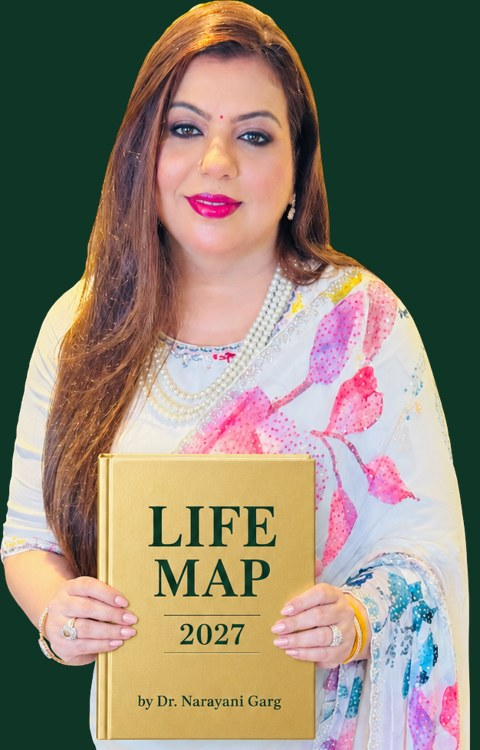
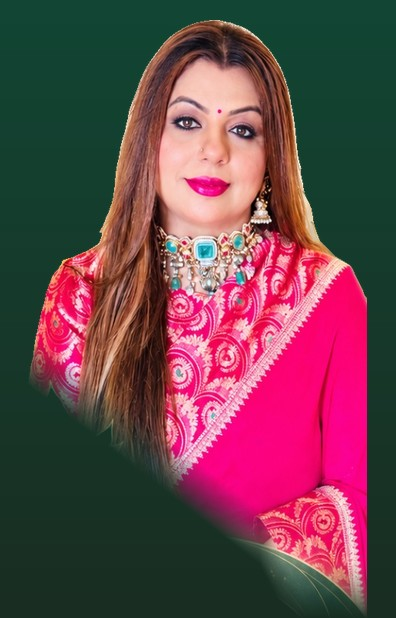
English-only form, no-translate, creative photo of Narayani, date field fix
Claude-Session: https://claude.ai/code/session_01ANPvQh3sSLw49KJqUUisnR

diff --git a/pay/index.html b/pay/index.html
@@ -1,13 +1,14 @@
 <!doctype html>
-<html lang="hi">
+<html lang="en" translate="no" class="notranslate">
 <head>
 <meta charset="utf-8">
+<meta name="google" content="notranslate">
 <meta name="viewport" content="width=device-width,initial-scale=1,viewport-fit=cover">
 <title>Life Map 2027 | Narayani Garg</title>
 <meta name="robots" content="noindex,nofollow">
-<meta name="description" content="Life Map 2027: sirf existing Soul Parivaar (Clients) ke liye. Details bhariye aur UPI se payment kijiye.">
+<meta name="description" content="Life Map 2027, only for existing Soul Parivaar (Clients). Fill in your details and pay by UPI.">
 <meta property="og:title" content="Life Map 2027 | Narayani Garg">
-<meta property="og:description" content="Sirf existing Soul Parivaar (Clients) ke liye. Rs 11,000 | Details bhariye aur UPI se payment kijiye.">
+<meta property="og:description" content="Only for existing Soul Parivaar (Clients). Rs 11,000 | Fill in your details and pay by UPI.">
 <meta property="og:image" content="https://deoxysaryan.github.io/nng-lifemap-2027/assets/narayani-lifemap.jpg"><meta property="og:type" content="website"><meta property="og:url" content="https://deoxysaryan.github.io/nng-lifemap-2027/pay/">
 <meta name="theme-color" content="#2A0B16">
 <style>
@@ -32,7 +33,7 @@ body{background:radial-gradient(120% 70% at 50% 0%,#4A1628 0%,var(--plum) 60%) f
 .top img{width:118px;height:auto;display:block;box-shadow:0 4px 14px rgba(0,0,0,.35)}
 .top span{font-weight:600;letter-spacing:.1em;font-size:14px;text-transform:uppercase}
 .hero{display:grid;grid-template-columns:132px 1fr;gap:16px;align-items:center}
-.hero img{width:132px;height:206px;object-fit:cover;object-position:30% 10%;border-radius:14px;border:1px solid rgba(232,181,74,.35)}
+.hero img{width:132px;height:206px;object-fit:cover;object-position:50% 0%;border-radius:14px;border:1px solid rgba(232,181,74,.35)}
 .badge{display:inline-flex;align-items:center;gap:8px;font-size:13px;font-weight:600;color:var(--gold-hi);background:rgba(232,181,74,.16);border:1.5px solid rgba(232,181,74,.7);border-radius:999px;padding:6px 12px;margin-bottom:10px}
 .badge svg{width:14px;height:14px;fill:none;stroke:var(--gold-hi);stroke-width:2}
 h1{font-family:var(--display);font-weight:700;text-transform:uppercase;line-height:1.02;margin:0;font-size:34px;letter-spacing:.005em}
@@ -51,6 +52,8 @@ h2{font-family:var(--display);font-weight:600;text-transform:uppercase;font-size
 .sub{margin:0 0 16px;color:var(--muted);font-size:14px;line-height:1.45}
 .f{display:flex;flex-direction:column;gap:6px;margin-bottom:14px}
 label{font-weight:600;font-size:14px}
+input[type=date]{-webkit-appearance:none;appearance:none;display:block;min-width:0;max-width:100%;text-align:left}
+input::-webkit-date-and-time-value{text-align:left}
 input{font:inherit;font-size:16px;color:var(--ink);background:#fff;border:1.5px solid var(--line);border-radius:12px;padding:13px 14px;width:100%;min-height:50px}
 input:focus{outline:none;border-color:var(--gold);box-shadow:0 0 0 3px rgba(232,181,74,.3)}
 .f.err input{border-color:var(--red)}
@@ -86,11 +89,11 @@ input:focus{outline:none;border-color:var(--gold);box-shadow:0 0 0 3px rgba(232,
   <header class="top"><img src="../assets/logo.png" alt="Transformation with NNG" width="118" height="62"><span>Life Map 2027</span></header>
 
   <section class="hero">
-    <img src="../assets/narayani-lifemap.jpg" alt="Narayani Garg holding the Life Map 2027" width="132" height="206">
+    <img src="../assets/narayani-lifemap.jpg" alt="Narayani Garg" width="132" height="206">
     <div>
       <div class="badge"><svg viewBox="0 0 24 24"><rect x="5" y="10.5" width="14" height="10" rx="2"/><path d="M8 10.5V8a4 4 0 0 1 8 0v2.5"/></svg>Only for existing Soul Parivaar (Clients)</div>
-      <h1>Apna <em>Life Map 2027</em> book kijiye</h1>
-      <ul class="pts"><li>Har mahine ka plan</li><li>Har mushkil ka upaay</li></ul>
+      <h1>Book your <em>Life Map 2027</em></h1>
+      <ul class="pts"><li>A plan for every month</li><li>A remedy for every challenge</li></ul>
     </div>
   </section>
 
@@ -98,32 +101,32 @@ input:focus{outline:none;border-color:var(--gold);box-shadow:0 0 0 3px rgba(232,
     <div class="steps"><span id="s1" class="on">1 · Details</span><span id="s2">2 · Payment</span></div>
 
     <form id="step1" novalidate>
-      <h2>Aapki details</h2>
-      <p class="sub">Aapka Life Map aapki janam tithi se banega. Details sahi bhariye.</p>
-      <div class="f" id="f-name"><label for="name">Poora naam</label><input id="name" name="name" autocomplete="name" placeholder="Jaise: Priya Sharma" required><span class="e"></span></div>
-      <div class="f" id="f-email"><label for="email">Email ID</label><input id="email" name="email" type="email" inputmode="email" autocomplete="email" placeholder="aapka@email.com" required><span class="e"></span></div>
-      <div class="f" id="f-dob"><label for="dob">Janam tithi (Date of birth)</label><input id="dob" name="dob" type="date" min="1920-01-01" required><span class="e"></span></div>
-      <button class="btn" id="go" type="submit">Aage badhiye: Payment <span aria-hidden="true">→</span></button>
-      <p class="note">Aapki details sirf Narayani ji ki team ke paas jaayengi.</p>
+      <h2>Your details</h2>
+      <p class="sub">Your Life Map is made from your date of birth, so please fill in correct details.</p>
+      <div class="f" id="f-name"><label for="name">Full name</label><input id="name" name="name" autocomplete="name" placeholder="e.g. Priya Sharma" required><span class="e"></span></div>
+      <div class="f" id="f-email"><label for="email">Email ID</label><input id="email" name="email" type="email" inputmode="email" autocomplete="email" placeholder="you@email.com" required><span class="e"></span></div>
+      <div class="f" id="f-dob"><label for="dob">Date of birth</label><input id="dob" name="dob" type="date" min="1920-01-01" required><span class="e"></span></div>
+      <button class="btn" id="go" type="submit">Continue to payment <span aria-hidden="true">→</span></button>
+      <p class="note">Your details are shared only with Narayani's team.</p>
     </form>
 
     <div id="step2" hidden>
-      <h2>Rs 11,000 pay kijiye</h2>
-      <p class="sub" id="hi">Phone par button dabaiye, ya kisi bhi UPI app se QR scan kijiye. Amount pehle se bhara hoga.</p>
-      <p class="imp"><b>Zaroori:</b> Payment ke baad isi page par wapas aaiye aur neeche <b>"Maine pay kar diya"</b> button zaroor dabaiye. Tabhi aapki booking confirm hogi.</p>
-      <a class="btn" id="paylink" href="upi://pay?pa=MSTRANSFORMATIONWITHNNG.eazypay@icici&amp;pn=M%2FS.TRANSFORMATION%20WITH%20NNG&amp;tr=EZYS9711061061&amp;am=11000.00&amp;cu=INR&amp;mc=NULL&amp;tn=Life%20Map%202027">UPI app se pay kijiye <span aria-hidden="true">→</span></a>
+      <h2>Pay Rs 11,000</h2>
+      <p class="sub" id="hi">Tap the button on your phone, or scan the QR with any UPI app. The amount is already filled in.</p>
+      <p class="imp"><b>Important:</b> After paying, come back to this page and tap the <b>"I have paid"</b> button below. Your booking is confirmed only after you tap it.</p>
+      <a class="btn" id="paylink" href="upi://pay?pa=MSTRANSFORMATIONWITHNNG.eazypay@icici&amp;pn=M%2FS.TRANSFORMATION%20WITH%20NNG&amp;tr=EZYS9711061061&amp;am=11000.00&amp;cu=INR&amp;mc=NULL&amp;tn=Life%20Map%202027">Pay with UPI app <span aria-hidden="true">→</span></a>
       <img class="qr" src="../assets/upi-11000.png" alt="UPI QR code for Rs 11,000 to M/S. Transformation with NNG" width="320" height="400" style="width:min(300px,80%)">
       <div class="upi"><code id="upiid">MSTRANSFORMATIONWITHNNG.eazypay@icici</code><button class="copy" id="copy" type="button">Copy</button></div>
       <form id="step3" novalidate class="after">
-        <h3>Payment ho gaya?</h3>
-        <p>Ab yeh button zaroor dabaiye. Iske bina booking confirm nahi hogi.</p>
-        <button class="btn dark" id="done" type="submit">Maine pay kar diya <span aria-hidden="true">✓</span></button>
+        <h3>Payment done?</h3>
+        <p>Tap this button now. Without it, your booking will not be confirmed.</p>
+        <button class="btn dark" id="done" type="submit">I have paid <span aria-hidden="true">✓</span></button>
       </form>
     </div>
 
     <div id="step4" hidden>
-      <h2 id="ty">Dhanyavaad 🙏</h2>
-      <p class="sub">Aapki booking record ho gayi hai. Payment verify hote hi Narayani ji ki team aapse sampark karegi.</p>
+      <h2 id="ty">Thank you 🙏</h2>
+      <p class="sub">Your booking has been recorded. Narayani's team will contact you once the payment is verified.</p>
       <p class="note" id="ref2"></p>
     </div>
   </section>
@@ -139,9 +142,9 @@ input:focus{outline:none;border-color:var(--gold);box-shadow:0 0 0 3px rgba(232,
   const today = new Date().toISOString().slice(0, 10);
   el.dob.max = today;
   const rules = {
-    name: v => v.trim().length >= 2 ? '' : 'Apna poora naam likhiye.',
-    email: v => !v.trim() ? 'Apna email ID likhiye.' : /^[^\s@]+@[^\s@]+\.[^\s@]{2,}$/.test(v.trim()) ? '' : 'Sahi email ID likhiye.',
-    dob: v => !v ? 'Apni janam tithi chuniye.' : (v < '1920-01-01' || v > today) ? 'Sahi janam tithi chuniye.' : ''
+    name: v => v.trim().length >= 2 ? '' : 'Please enter your full name.',
+    email: v => !v.trim() ? 'Please enter your email ID.' : /^[^\s@]+@[^\s@]+\.[^\s@]{2,}$/.test(v.trim()) ? '' : 'Please enter a valid email ID.',
+    dob: v => !v ? 'Please select your date of birth.' : (v < '1920-01-01' || v > today) ? 'Please select a valid date of birth.' : ''
   };
   const setErr = (n, m) => { const box = document.getElementById('f-' + n); box.classList.toggle('err', !!m); box.querySelector('.e').textContent = m; };
   let who = null, ref = '';
@@ -164,8 +167,8 @@ input:focus{outline:none;border-color:var(--gold);box-shadow:0 0 0 3px rgba(232,
     const nm = who.name.replace(/[^A-Za-z ]/g, '').slice(0, 30).trim();
     const pl = document.getElementById('paylink');
     pl.href = pl.href.replace(/tn=[^&]*/, 'tn=' + encodeURIComponent(ref + ' ' + nm + ' Life Map 2027'));
-    send('Details bhare, payment pending');
-    document.getElementById('hi').textContent = 'Dhanyavaad ' + who.name.split(' ')[0] + '. Phone par button dabaiye, ya kisi bhi UPI app se QR scan kijiye. Amount pehle se bhara hoga.';
+    send('Details filled, payment pending');
+    document.getElementById('hi').textContent = 'Thank you ' + who.name.split(' ')[0] + '. Tap the button on your phone, or scan the QR with any UPI app. The amount is already filled in.';
     f.hidden = true; document.getElementById('step2').hidden = false;
     document.getElementById('s1').className = 'done'; document.getElementById('s2').className = 'on';
     document.getElementById('card').scrollIntoView({ behavior: 'smooth', block: 'start' });
@@ -173,9 +176,9 @@ input:focus{outline:none;border-color:var(--gold);box-shadow:0 0 0 3px rgba(232,
   const g = document.getElementById('step3');
   g.addEventListener('submit', async e => {
     e.preventDefault();
-    const btn = document.getElementById('done'); btn.disabled = true; btn.textContent = 'Record ho raha hai...';
+    const btn = document.getElementById('done'); btn.disabled = true; btn.textContent = 'Recording...';
     await send('Payment made Rs 11,000 (client confirmed, verify in statement)');
-    document.getElementById('ty').textContent = 'Dhanyavaad ' + who.name.split(' ')[0] + ' 🙏';
+    document.getElementById('ty').textContent = 'Thank you ' + who.name.split(' ')[0] + ' 🙏';
     document.getElementById('ref2').textContent = 'Booking ID: ' + ref;
     document.getElementById('step2').hidden = true; document.getElementById('step4').hidden = false;
     document.getElementById('s2').className = 'done';
@@ -184,7 +187,7 @@ input:focus{outline:none;border-color:var(--gold);box-shadow:0 0 0 3px rgba(232,
   document.getElementById('copy').addEventListener('click', async ev => {
     const b = ev.currentTarget, t = document.getElementById('upiid').textContent;
     try { await navigator.clipboard.writeText(t); b.textContent = 'Copied'; }
-    catch (e) { const r = document.createRange(); r.selectNodeContents(document.getElementById('upiid')); const s = getSelection(); s.removeAllRanges(); s.addRange(r); b.textContent = 'Select ho gaya'; }
+    catch (e) { const r = document.createRange(); r.selectNodeContents(document.getElementById('upiid')); const s = getSelection(); s.removeAllRanges(); s.addRange(r); b.textContent = 'Selected'; }
     setTimeout(() => { b.textContent = 'Copy'; }, 2000);
   });
 })();

diff --git a/index.html b/index.html
@@ -1,13 +1,14 @@
 <!doctype html>
-<html lang="hi">
+<html lang="en" translate="no" class="notranslate">
 <head>
 <meta charset="utf-8">
+<meta name="google" content="notranslate">
 <meta name="viewport" content="width=device-width,initial-scale=1,viewport-fit=cover">
 <title>Life Map 2027 | Narayani Garg</title>
 <meta name="robots" content="noindex,nofollow">
-<meta name="description" content="Life Map 2027: sirf existing Soul Parivaar (Clients) ke liye. Details bhariye aur UPI se payment kijiye.">
+<meta name="description" content="Life Map 2027, only for existing Soul Parivaar (Clients). Fill in your details and pay by UPI.">
 <meta property="og:title" content="Life Map 2027 | Narayani Garg">
-<meta property="og:description" content="Sirf existing Soul Parivaar (Clients) ke liye. Rs 11,000 | Details bhariye aur UPI se payment kijiye.">
+<meta property="og:description" content="Only for existing Soul Parivaar (Clients). Rs 11,000 | Fill in your details and pay by UPI.">
 <meta property="og:image" content="https://deoxysaryan.github.io/nng-lifemap-2027/assets/narayani-lifemap.jpg"><meta property="og:type" content="website"><meta property="og:url" content="https://deoxysaryan.github.io/nng-lifemap-2027/pay/">
 <meta name="theme-color" content="#2A0B16">
 <style>
@@ -32,7 +33,7 @@ body{background:radial-gradient(120% 70% at 50% 0%,#4A1628 0%,var(--plum) 60%) f
 .top img{width:118px;height:auto;display:block;box-shadow:0 4px 14px rgba(0,0,0,.35)}
 .top span{font-weight:600;letter-spacing:.1em;font-size:14px;text-transform:uppercase}
 .hero{display:grid;grid-template-columns:132px 1fr;gap:16px;align-items:center}
-.hero img{width:132px;height:206px;object-fit:cover;object-position:30% 10%;border-radius:14px;border:1px solid rgba(232,181,74,.35)}
+.hero img{width:132px;height:206px;object-fit:cover;object-position:50% 0%;border-radius:14px;border:1px solid rgba(232,181,74,.35)}
 .badge{display:inline-flex;align-items:center;gap:8px;font-size:13px;font-weight:600;color:var(--gold-hi);background:rgba(232,181,74,.16);border:1.5px solid rgba(232,181,74,.7);border-radius:999px;padding:6px 12px;margin-bottom:10px}
 .badge svg{width:14px;height:14px;fill:none;stroke:var(--gold-hi);stroke-width:2}
 h1{font-family:var(--display);font-weight:700;text-transform:uppercase;line-height:1.02;margin:0;font-size:34px;letter-spacing:.005em}
@@ -51,6 +52,8 @@ h2{font-family:var(--display);font-weight:600;text-transform:uppercase;font-size
 .sub{margin:0 0 16px;color:var(--muted);font-size:14px;line-height:1.45}
 .f{display:flex;flex-direction:column;gap:6px;margin-bottom:14px}
 label{font-weight:600;font-size:14px}
+input[type=date]{-webkit-appearance:none;appearance:none;display:block;min-width:0;max-width:100%;text-align:left}
+input::-webkit-date-and-time-value{text-align:left}
 input{font:inherit;font-size:16px;color:var(--ink);background:#fff;border:1.5px solid var(--line);border-radius:12px;padding:13px 14px;width:100%;min-height:50px}
 input:focus{outline:none;border-color:var(--gold);box-shadow:0 0 0 3px rgba(232,181,74,.3)}
 .f.err input{border-color:var(--red)}
@@ -86,11 +89,11 @@ input:focus{outline:none;border-color:var(--gold);box-shadow:0 0 0 3px rgba(232,
   <header class="top"><img src="assets/logo.png" alt="Transformation with NNG" width="118" height="62"><span>Life Map 2027</span></header>
 
   <section class="hero">
-    <img src="assets/narayani-lifemap.jpg" alt="Narayani Garg holding the Life Map 2027" width="132" height="206">
+    <img src="assets/narayani-lifemap.jpg" alt="Narayani Garg" width="132" height="206">
     <div>
       <div class="badge"><svg viewBox="0 0 24 24"><rect x="5" y="10.5" width="14" height="10" rx="2"/><path d="M8 10.5V8a4 4 0 0 1 8 0v2.5"/></svg>Only for existing Soul Parivaar (Clients)</div>
-      <h1>Apna <em>Life Map 2027</em> book kijiye</h1>
-      <ul class="pts"><li>Har mahine ka plan</li><li>Har mushkil ka upaay</li></ul>
+      <h1>Book your <em>Life Map 2027</em></h1>
+      <ul class="pts"><li>A plan for every month</li><li>A remedy for every challenge</li></ul>
     </div>
   </section>
 
@@ -98,32 +101,32 @@ input:focus{outline:none;border-color:var(--gold);box-shadow:0 0 0 3px rgba(232,
     <div class="steps"><span id="s1" class="on">1 · Details</span><span id="s2">2 · Payment</span></div>
 
     <form id="step1" novalidate>
-      <h2>Aapki details</h2>
-      <p class="sub">Aapka Life Map aapki janam tithi se banega. Details sahi bhariye.</p>
-      <div class="f" id="f-name"><label for="name">Poora naam</label><input id="name" name="name" autocomplete="name" placeholder="Jaise: Priya Sharma" required><span class="e"></span></div>
-      <div class="f" id="f-email"><label for="email">Email ID</label><input id="email" name="email" type="email" inputmode="email" autocomplete="email" placeholder="aapka@email.com" required><span class="e"></span></div>
-      <div class="f" id="f-dob"><label for="dob">Janam tithi (Date of birth)</label><input id="dob" name="dob" type="date" min="1920-01-01" required><span class="e"></span></div>
-      <button class="btn" id="go" type="submit">Aage badhiye: Payment <span aria-hidden="true">→</span></button>
-      <p class="note">Aapki details sirf Narayani ji ki team ke paas jaayengi.</p>
+      <h2>Your details</h2>
+      <p class="sub">Your Life Map is made from your date of birth, so please fill in correct details.</p>
+      <div class="f" id="f-name"><label for="name">Full name</label><input id="name" name="name" autocomplete="name" placeholder="e.g. Priya Sharma" required><span class="e"></span></div>
+      <div class="f" id="f-email"><label for="email">Email ID</label><input id="email" name="email" type="email" inputmode="email" autocomplete="email" placeholder="you@email.com" required><span class="e"></span></div>
+      <div class="f" id="f-dob"><label for="dob">Date of birth</label><input id="dob" name="dob" type="date" min="1920-01-01" required><span class="e"></span></div>
+      <button class="btn" id="go" type="submit">Continue to payment <span aria-hidden="true">→</span></button>
+      <p class="note">Your details are shared only with Narayani's team.</p>
     </form>
 
     <div id="step2" hidden>
-      <h2>Rs 11,000 pay kijiye</h2>
-      <p class="sub" id="hi">Phone par button dabaiye, ya kisi bhi UPI app se QR scan kijiye. Amount pehle se bhara hoga.</p>
-      <p class="imp"><b>Zaroori:</b> Payment ke baad isi page par wapas aaiye aur neeche <b>"Maine pay kar diya"</b> button zaroor dabaiye. Tabhi aapki booking confirm hogi.</p>
-      <a class="btn" id="paylink" href="upi://pay?pa=MSTRANSFORMATIONWITHNNG.eazypay@icici&amp;pn=M%2FS.TRANSFORMATION%20WITH%20NNG&amp;tr=EZYS9711061061&amp;am=11000.00&amp;cu=INR&amp;mc=NULL&amp;tn=Life%20Map%202027">UPI app se pay kijiye <span aria-hidden="true">→</span></a>
+      <h2>Pay Rs 11,000</h2>
+      <p class="sub" id="hi">Tap the button on your phone, or scan the QR with any UPI app. The amount is already filled in.</p>
+      <p class="imp"><b>Important:</b> After paying, come back to this page and tap the <b>"I have paid"</b> button below. Your booking is confirmed only after you tap it.</p>
+      <a class="btn" id="paylink" href="upi://pay?pa=MSTRANSFORMATIONWITHNNG.eazypay@icici&amp;pn=M%2FS.TRANSFORMATION%20WITH%20NNG&amp;tr=EZYS9711061061&amp;am=11000.00&amp;cu=INR&amp;mc=NULL&amp;tn=Life%20Map%202027">Pay with UPI app <span aria-hidden="true">→</span></a>
       <img class="qr" src="assets/upi-11000.png" alt="UPI QR code for Rs 11,000 to M/S. Transformation with NNG" width="320" height="400" style="width:min(300px,80%)">
       <div class="upi"><code id="upiid">MSTRANSFORMATIONWITHNNG.eazypay@icici</code><button class="copy" id="copy" type="button">Copy</button></div>
       <form id="step3" novalidate class="after">
-        <h3>Payment ho gaya?</h3>
-        <p>Ab yeh button zaroor dabaiye. Iske bina booking confirm nahi hogi.</p>
-        <button class="btn dark" id="done" type="submit">Maine pay kar diya <span aria-hidden="true">✓</span></button>
+        <h3>Payment done?</h3>
+        <p>Tap this button now. Without it, your booking will not be confirmed.</p>
+        <button class="btn dark" id="done" type="submit">I have paid <span aria-hidden="true">✓</span></button>
       </form>
     </div>
 
     <div id="step4" hidden>
-      <h2 id="ty">Dhanyavaad 🙏</h2>
-      <p class="sub">Aapki booking record ho gayi hai. Payment verify hote hi Narayani ji ki team aapse sampark karegi.</p>
+      <h2 id="ty">Thank you 🙏</h2>
+      <p class="sub">Your booking has been recorded. Narayani's team will contact you once the payment is verified.</p>
       <p class="note" id="ref2"></p>
     </div>
   </section>
@@ -139,9 +142,9 @@ input:focus{outline:none;border-color:var(--gold);box-shadow:0 0 0 3px rgba(232,
   const today = new Date().toISOString().slice(0, 10);
   el.dob.max = today;
   const rules = {
-    name: v => v.trim().length >= 2 ? '' : 'Apna poora naam likhiye.',
-    email: v => !v.trim() ? 'Apna email ID likhiye.' : /^[^\s@]+@[^\s@]+\.[^\s@]{2,}$/.test(v.trim()) ? '' : 'Sahi email ID likhiye.',
-    dob: v => !v ? 'Apni janam tithi chuniye.' : (v < '1920-01-01' || v > today) ? 'Sahi janam tithi chuniye.' : ''
+    name: v => v.trim().length >= 2 ? '' : 'Please enter your full name.',
+    email: v => !v.trim() ? 'Please enter your email ID.' : /^[^\s@]+@[^\s@]+\.[^\s@]{2,}$/.test(v.trim()) ? '' : 'Please enter a valid email ID.',
+    dob: v => !v ? 'Please select your date of birth.' : (v < '1920-01-01' || v > today) ? 'Please select a valid date of birth.' : ''
   };
   const setErr = (n, m) => { const box = document.getElementById('f-' + n); box.classList.toggle('err', !!m); box.querySelector('.e').textContent = m; };
   let who = null, ref = '';
@@ -164,8 +167,8 @@ input:focus{outline:none;border-color:var(--gold);box-shadow:0 0 0 3px rgba(232,
     const nm = who.name.replace(/[^A-Za-z ]/g, '').slice(0, 30).trim();
     const pl = document.getElementById('paylink');
     pl.href = pl.href.replace(/tn=[^&]*/, 'tn=' + encodeURIComponent(ref + ' ' + nm + ' Life Map 2027'));
-    send('Details bhare, payment pending');
-    document.getElementById('hi').textContent = 'Dhanyavaad ' + who.name.split(' ')[0] + '. Phone par button dabaiye, ya kisi bhi UPI app se QR scan kijiye. Amount pehle se bhara hoga.';
+    send('Details filled, payment pending');
+    document.getElementById('hi').textContent = 'Thank you ' + who.name.split(' ')[0] + '. Tap the button on your phone, or scan the QR with any UPI app. The amount is already filled in.';
     f.hidden = true; document.getElementById('step2').hidden = false;
     document.getElementById('s1').className = 'done'; document.getElementById('s2').className = 'on';
     document.getElementById('card').scrollIntoView({ behavior: 'smooth', block: 'start' });
@@ -173,9 +176,9 @@ input:focus{outline:none;border-color:var(--gold);box-shadow:0 0 0 3px rgba(232,
   const g = document.getElementById('step3');
   g.addEventListener('submit', async e => {
     e.preventDefault();
-    const btn = document.getElementById('done'); btn.disabled = true; btn.textContent = 'Record ho raha hai...';
+    const btn = document.getElementById('done'); btn.disabled = true; btn.textContent = 'Recording...';
     await send('Payment made Rs 11,000 (client confirmed, verify in statement)');
-    document.getElementById('ty').textContent = 'Dhanyavaad ' + who.name.split(' ')[0] + ' 🙏';
+    document.getElementById('ty').textContent = 'Thank you ' + who.name.split(' ')[0] + ' 🙏';
     document.getElementById('ref2').textContent = 'Booking ID: ' + ref;
     document.getElementById('step2').hidden = true; document.getElementById('step4').hidden = false;
     document.getElementById('s2').className = 'done';
@@ -184,7 +187,7 @@ input:focus{outline:none;border-color:var(--gold);box-shadow:0 0 0 3px rgba(232,
   document.getElementById('copy').addEventListener('click', async ev => {
     const b = ev.currentTarget, t = document.getElementById('upiid').textContent;
     try { await navigator.clipboard.writeText(t); b.textContent = 'Copied'; }
-    catch (e) { const r = document.createRange(); r.selectNodeContents(document.getElementById('upiid')); const s = getSelection(); s.removeAllRanges(); s.addRange(r); b.textContent = 'Select ho gaya'; }
+    catch (e) { const r = document.createRange(); r.selectNodeContents(document.getElementById('upiid')); const s = getSelection(); s.removeAllRanges(); s.addRange(r); b.textContent = 'Selected'; }
     setTimeout(() => { b.textContent = 'Copy'; }, 2000);
   });
 })();
